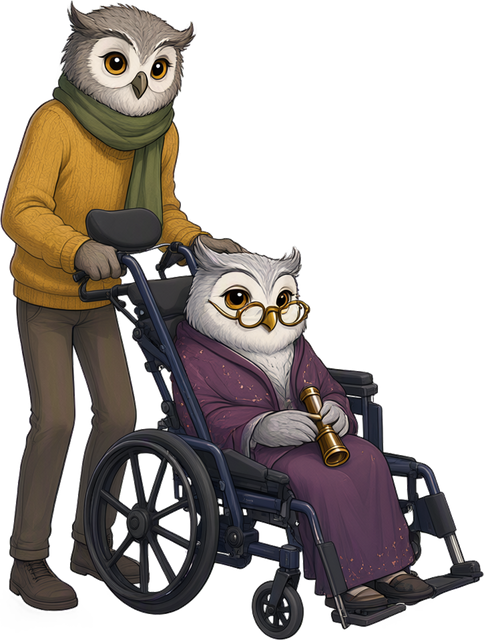
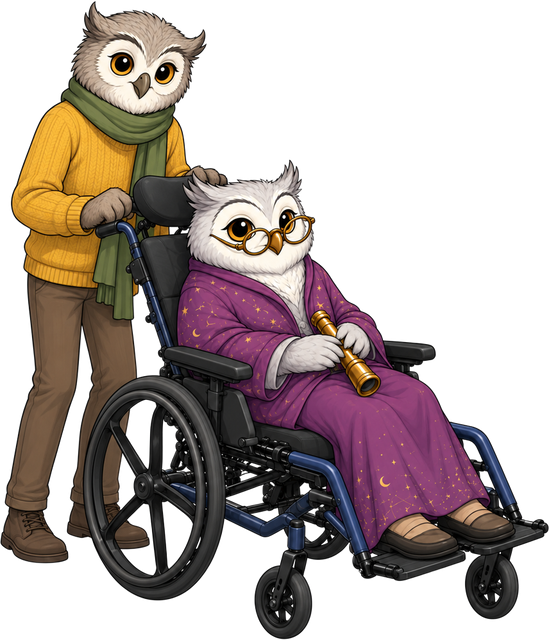
Агата с внуком: портрет перерисован Codex в Focus CR с подголовником (вариант 2 — выбор владельца)

diff --git a/AGENTS.md b/AGENTS.md
@@ -504,6 +504,10 @@ python i18n_work/build_lang.py       # перевод полон
   `qwen_cut.py` (сдвиг цвета 3/255), установлен как `assets/client_focuscr.png` 595×640 (прежний — art_tests/retired/
   client_focuscr_before_codex_2310.png). Используется в Кабинете посадки (seat_owl); в квесте — портрет с внуком, он
   прежний. Пакет: `art_tests/codex_agata/`. **Выложено** (Pages 5d38f894, вместе с чисткой словаря), web_smoke сайта 20/0.
+  **Портрет с внуком тоже перерисован Codex** (`art_tests/codex_agata_grandson/`, главный образец — утверждённый
+  одиночный портрет, внук с прежней картинки, стиль — Искра с мамой; вариант 2 — выбор владельца: внук держит ручку и
+  трогает подголовник) → `qwen_cut.py` → `assets/client_focuscr_grandson.png` 549×640 (прежний —
+  retired/client_focuscr_grandson_before_codex_2310.png). Теперь обе картинки Агаты — в одной коляске с подголовником.
   (BRIEF.md, `run.sh` с готовой командой `codex exec`, рефы: нынешние портреты, рендер Focus CR в ракурсе портрета
   `portrait_chair.py chair_focuscr.png -0.95,-0.7` — с подголовником и наклоном 20°, фото, 2 портрета-образца стиля).
   Дальше по §8б: `qwen_cut.py` → `assets/client_focuscr.png`, старый — в retired; портрет с внуком — отдельно, если нужно.
